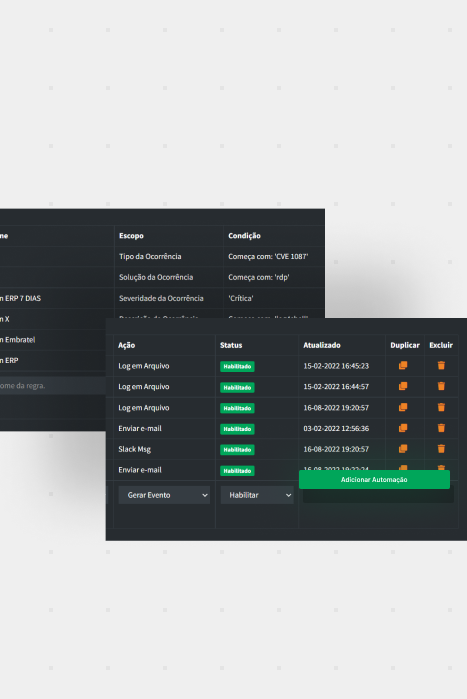
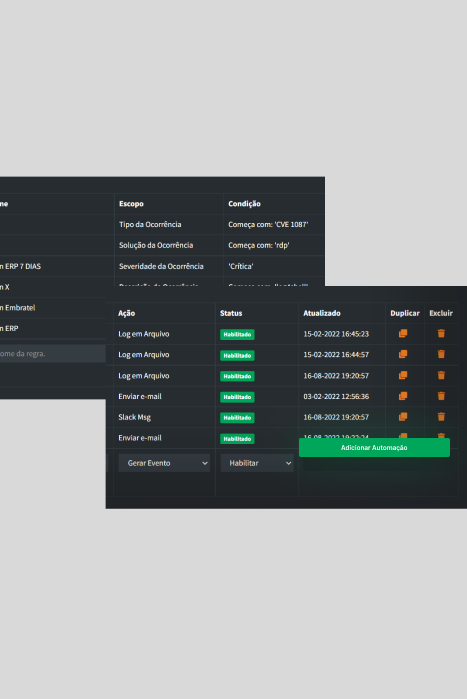
Ajustando texto e imagem

Changed region(s): [[0.0, 0.2403, 1.0, 0.7811]]

diff --git a/funcionalidades.html b/funcionalidades.html
@@ -824,7 +824,7 @@
 
                             </div>
 
-                            <img src="./Assets/Funcionalidades/Tabs/Imagens/Dashboard.png" alt="Dashboard" class="imagem__info__tabs__conteudo__funcionalidades">
+                            <img src="./Assets/Funcionalidades/Tabs/Imagens/Automacoes.png" alt="Dashboard" class="imagem__info__tabs__conteudo__funcionalidades">
 
                         </section>
 
